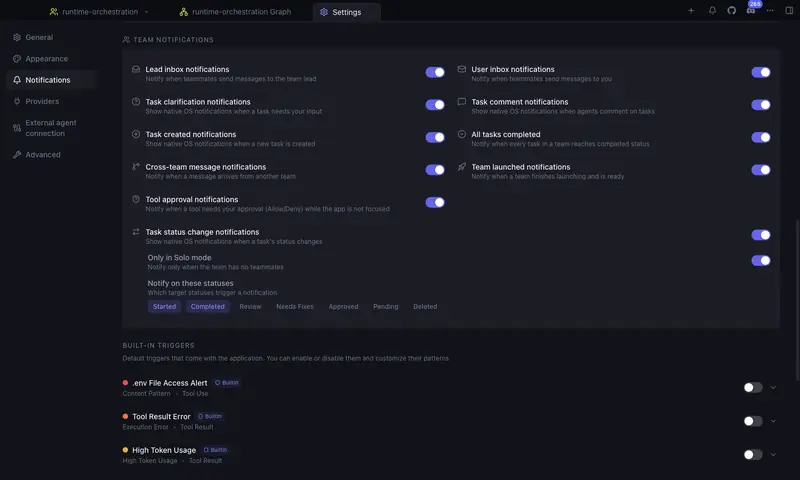
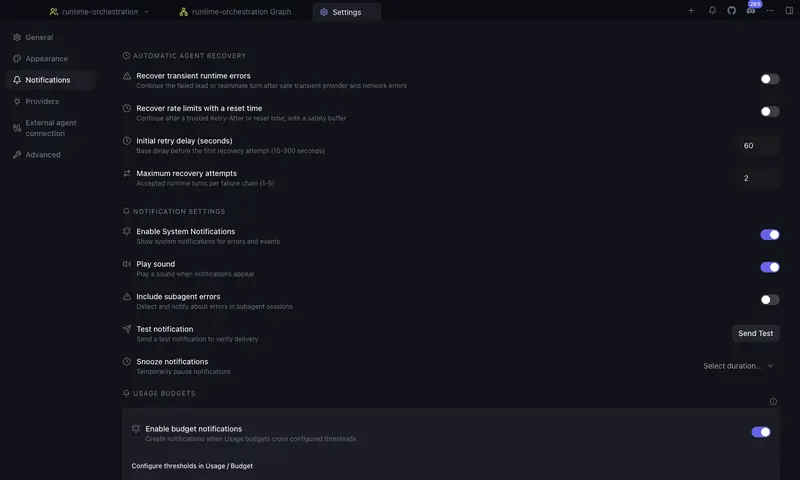
docs: show top of notification settings screenshot

diff --git a/landing/data/screenshots.ts b/landing/data/screenshots.ts
@@ -98,8 +98,8 @@ export const screenshots: Screenshot[] = [
   {
     path: 'screenshots/6.png',
     previewPath: 'screenshots/previews/6.webp',
-    alt: 'Responsive team notification settings and built-in triggers',
-    ruAlt: 'Адаптивные настройки уведомлений команды и встроенные триггеры',
+    alt: 'Notification settings and automatic agent recovery',
+    ruAlt: 'Настройки уведомлений и автоматического восстановления агентов',
     width: 1500,
     height: 900,
   },

diff --git a/README.md b/README.md
@@ -91,7 +91,7 @@
 </td>
 <td width="50%">
   <a href="docs/screenshots/6.png">
-    <img src="docs/screenshots/previews/6.webp" alt="Team notification settings and built-in triggers" width="100%" loading="lazy" />
+    <img src="docs/screenshots/previews/6.webp" alt="Notification settings and automatic agent recovery" width="100%" loading="lazy" />
   </a>
 </td>
 </tr>
